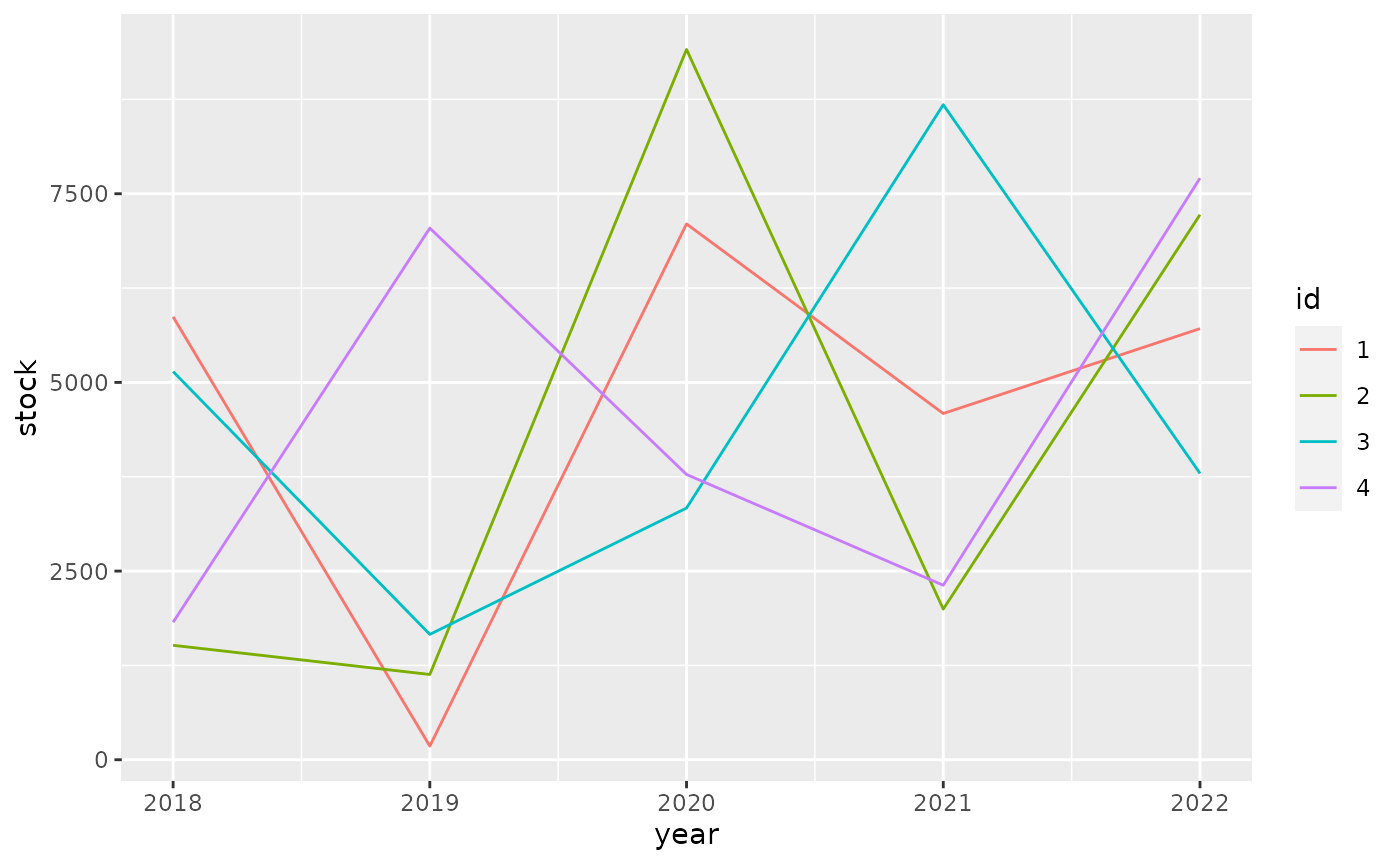
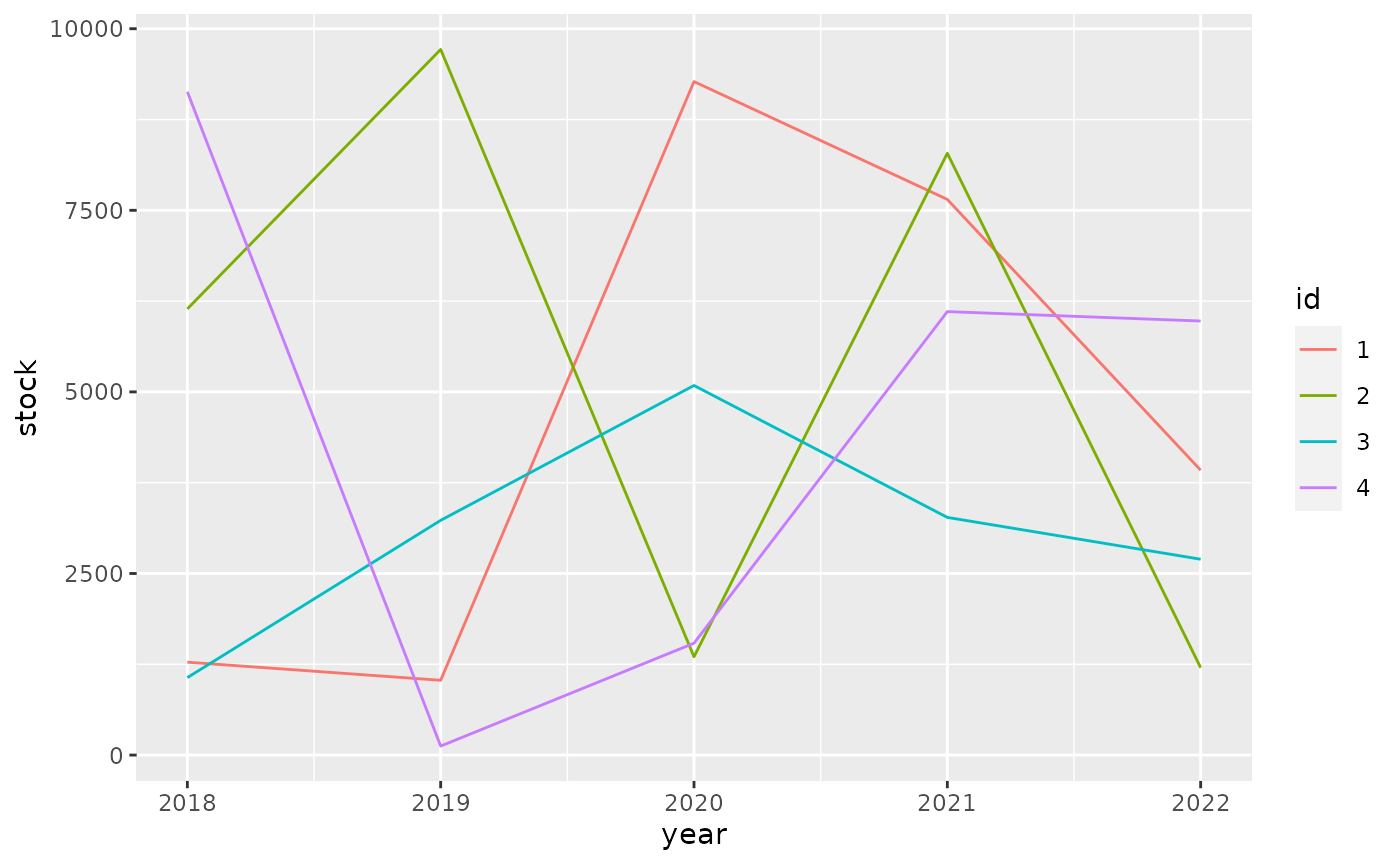
Built site for tibble: 3.1.1@4a56ae8

diff --git a/articles/formats.html b/articles/formats.html
@@ -220,10 +220,10 @@
 <span class="co">#&gt; # A tibble: 4 x 6</span>
 <span class="co">#&gt;   id       `2018`    `2019`    `2020`    `2021`    `2022`</span>
 <span class="co">#&gt;   &lt;fct&gt; &lt;dbl:fmt&gt; &lt;dbl:fmt&gt; &lt;dbl:fmt&gt; &lt;dbl:fmt&gt; &lt;dbl:fmt&gt;</span>
-<span class="co">#&gt; 1 1     $5,869.07   $181.07 $7,100.01 $4,587.66 $5,712.53</span>
-<span class="co">#&gt; 2 2     $1,516.43 $1,129.75 $9,412.05 $1,995.86 $7,222.41</span>
-<span class="co">#&gt; 3 3     $5,143.82 $1,661.12 $3,335.41 $8,680.03 $3,794.35</span>
-<span class="co">#&gt; 4 4     $1,821.46 $7,044.77 $3,779.98 $2,312.24 $7,706.44</span></code></pre></div>
+<span class="co">#&gt; 1 1     $1,279.07 $1,029.78 $9,272.33 $7,649.82 $3,922.38</span>
+<span class="co">#&gt; 2 2     $6,142.76 $9,714.71 $1,353.54 $8,285.10 $1,203.08</span>
+<span class="co">#&gt; 3 3     $1,066.37 $3,231.69 $5,088.28 $3,272.22 $2,696.30</span>
+<span class="co">#&gt; 4 4     $9,131.80   $123.87 $1,540.18 $6,105.44 $5,975.85</span></code></pre></div>
 <p>For ggplot2 we need to do <a href="https://github.com/tidyverse/ggplot2/pull/4065" class="external-link">some work</a> to show apply the formatting to the scales.</p>
 <div class="sourceCode" id="cb6"><pre class="downlit sourceCode r">
 <code class="sourceCode R"><span class="kw"><a href="https://rdrr.io/r/base/library.html" class="external-link">library</a></span><span class="op">(</span><span class="va"><a href="https://ggplot2.tidyverse.org" class="external-link">ggplot2</a></span><span class="op">)</span>
@@ -234,10 +234,10 @@
   <span class="fu"><a href="https://ggplot2.tidyverse.org/reference/geom_path.html" class="external-link">geom_line</a></span><span class="op">(</span><span class="op">)</span></code></pre></div>
 <p><img src="formats_files/figure-html/unnamed-chunk-7-1.png" width="700"></p>
 <p>It pays off to specify formatting very early in the process. The diagram below shows the principal stages of data analysis and exploration from “R for data science”.</p>
-<div id="htmlwidget-780cbdcd66e84d325c32" style="width:700px;height:432.632880098888px;" class="DiagrammeR html-widget"></div>
-<script type="application/json" data-for="htmlwidget-780cbdcd66e84d325c32">{"x":{"diagram":"graph TD\n  Import --> Tidy\n  Tidy --> Transform\n  Transform --> Visualize\n  Visualize --> Communicate\n  Visualize --> Model\n  Model -.-> Transform"},"evals":[],"jsHooks":[]}</script><p>The subsequent diagram adds data formats, communication options, and explicit data formatting. The original r4ds transitions are highlighted in bold. There are two principal options where to apply formatting for results: right before communicating them, or right after importing.</p>
-<div id="htmlwidget-8733c5ac0a8cfafbfb8c" style="width:700px;height:432.632880098888px;" class="DiagrammeR html-widget"></div>
-<script type="application/json" data-for="htmlwidget-8733c5ac0a8cfafbfb8c">{"x":{"diagram":"graph TD\n  .csv --> Import\n  API --> Import\n  DBI --> Import\n  dbplyr --> Import\n  Import -.-> Format[Format for analysis]\n  Format -.-> Tidy\n\n  subgraph r4ds\n  Import ==> Tidy\n  Tidy ==> Transform\n  Transform ==> Visualize\n  Visualize ==> Model\n  Model -.-> Transform\n  Visualize ==> Communicate\n  end\n\n  Visualize -.-> FormatComm[Format for communication]\n  FormatComm -.-> Communicate\n\n  FormatComm -- Apply formatting early --> Format\n\n  dbplyr -.-> Tidy\n  dbplyr -.-> Transform\n  dbplyr -.-> Visualize\n\n  Communicate --> gt\n  Communicate --> ggplot2\n  Communicate --> DT\n  Communicate --> plotly"},"evals":[],"jsHooks":[]}</script><p>Applying formatting early in the process gives the added benefit of showing the data in a useful format during the “Tidy”, “Transform”, and “Visualize” stages. For this to be useful, we need to ensure that the formatting options applied early:</p>
+<div id="htmlwidget-0751599eb8084ed4a635" style="width:700px;height:432.632880098888px;" class="DiagrammeR html-widget"></div>
+<script type="application/json" data-for="htmlwidget-0751599eb8084ed4a635">{"x":{"diagram":"graph TD\n  Import --> Tidy\n  Tidy --> Transform\n  Transform --> Visualize\n  Visualize --> Communicate\n  Visualize --> Model\n  Model -.-> Transform"},"evals":[],"jsHooks":[]}</script><p>The subsequent diagram adds data formats, communication options, and explicit data formatting. The original r4ds transitions are highlighted in bold. There are two principal options where to apply formatting for results: right before communicating them, or right after importing.</p>
+<div id="htmlwidget-2398d3834ca639cb3802" style="width:700px;height:432.632880098888px;" class="DiagrammeR html-widget"></div>
+<script type="application/json" data-for="htmlwidget-2398d3834ca639cb3802">{"x":{"diagram":"graph TD\n  .csv --> Import\n  API --> Import\n  DBI --> Import\n  dbplyr --> Import\n  Import -.-> Format[Format for analysis]\n  Format -.-> Tidy\n\n  subgraph r4ds\n  Import ==> Tidy\n  Tidy ==> Transform\n  Transform ==> Visualize\n  Visualize ==> Model\n  Model -.-> Transform\n  Visualize ==> Communicate\n  end\n\n  Visualize -.-> FormatComm[Format for communication]\n  FormatComm -.-> Communicate\n\n  FormatComm -- Apply formatting early --> Format\n\n  dbplyr -.-> Tidy\n  dbplyr -.-> Transform\n  dbplyr -.-> Visualize\n\n  Communicate --> gt\n  Communicate --> ggplot2\n  Communicate --> DT\n  Communicate --> plotly"},"evals":[],"jsHooks":[]}</script><p>Applying formatting early in the process gives the added benefit of showing the data in a useful format during the “Tidy”, “Transform”, and “Visualize” stages. For this to be useful, we need to ensure that the formatting options applied early:</p>
 <ul>
 <li>give a good user experience for analysis
 <ul>

diff --git a/articles/types.html b/articles/types.html
@@ -351,7 +351,7 @@
 #&gt; $ factor        &lt;fct&gt; A
 #&gt; $ ordered       &lt;ord&gt; a
 #&gt; $ Date          &lt;date&gt; 2021-04-18
-#&gt; $ POSIXt        &lt;dttm&gt; 2021-04-18 04:14:08
+#&gt; $ POSIXt        &lt;dttm&gt; 2021-04-18 04:17:19
 #&gt; $ difftime      &lt;drtn&gt; 1 secs
 #&gt; $ hms           &lt;time&gt; 00:00:01
 #&gt; $ integer64     &lt;int64&gt; 10000000000
@@ -387,7 +387,7 @@
 <span class="co">#&gt;             "sym"</span>
 <span class="co">#&gt;         }, typeof(x))</span>
 <span class="co">#&gt; }</span>
-<span class="co">#&gt; &lt;bytecode: 0x55795c2f96c0&gt;</span>
+<span class="co">#&gt; &lt;bytecode: 0x55cee44108b8&gt;</span>
 <span class="co">#&gt; &lt;environment: namespace:pillar&gt;</span></code></pre></div>
 </div>
   </div>
